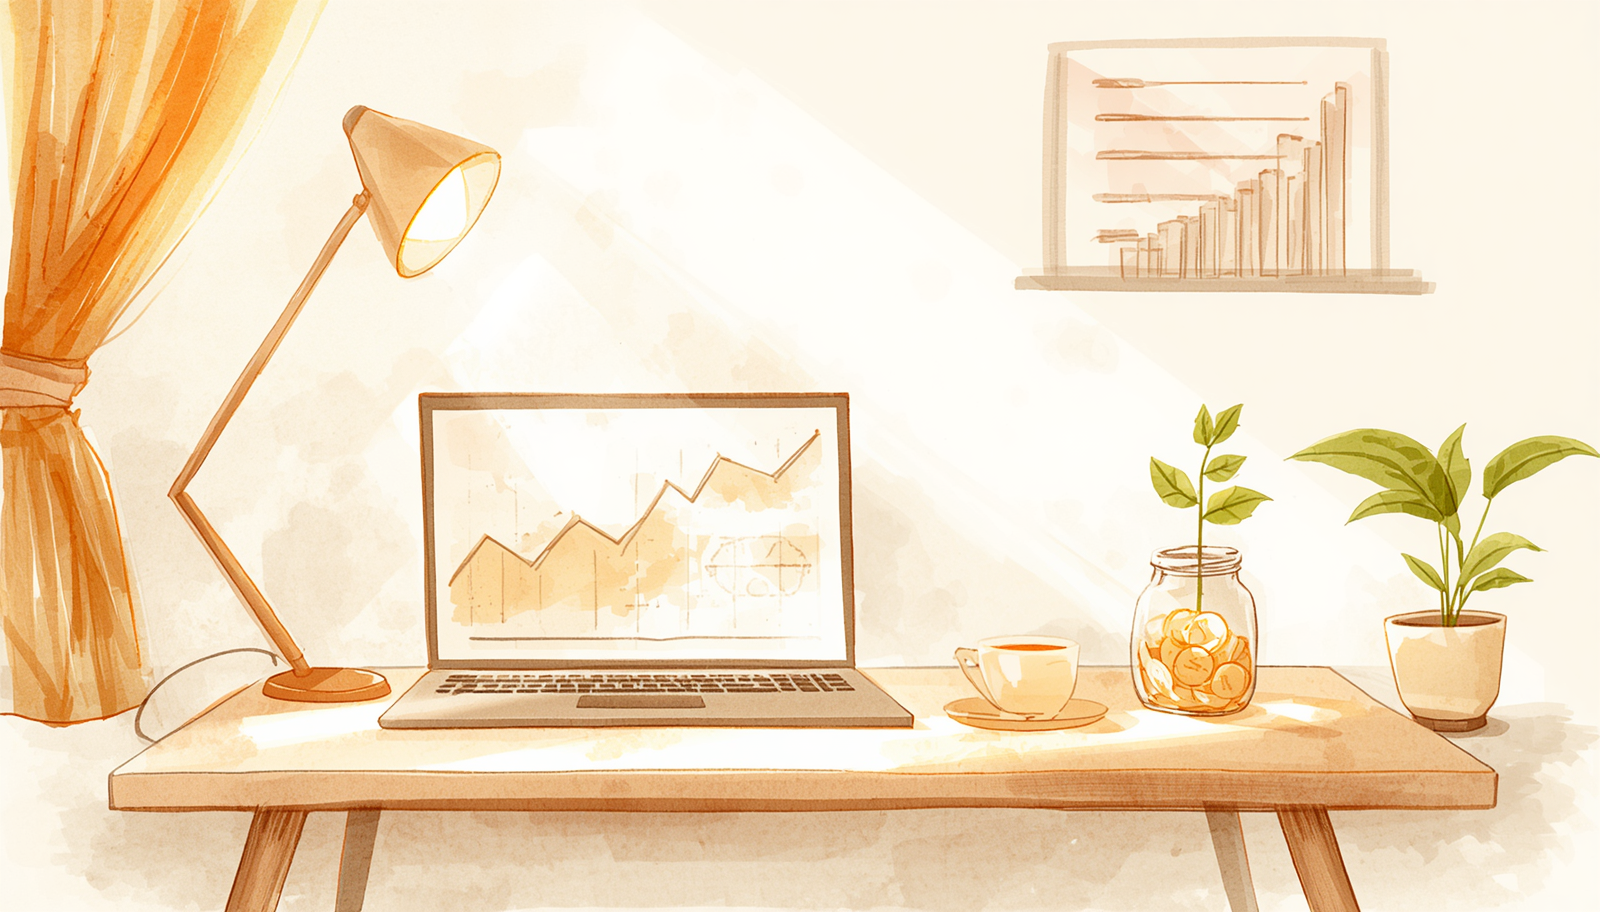
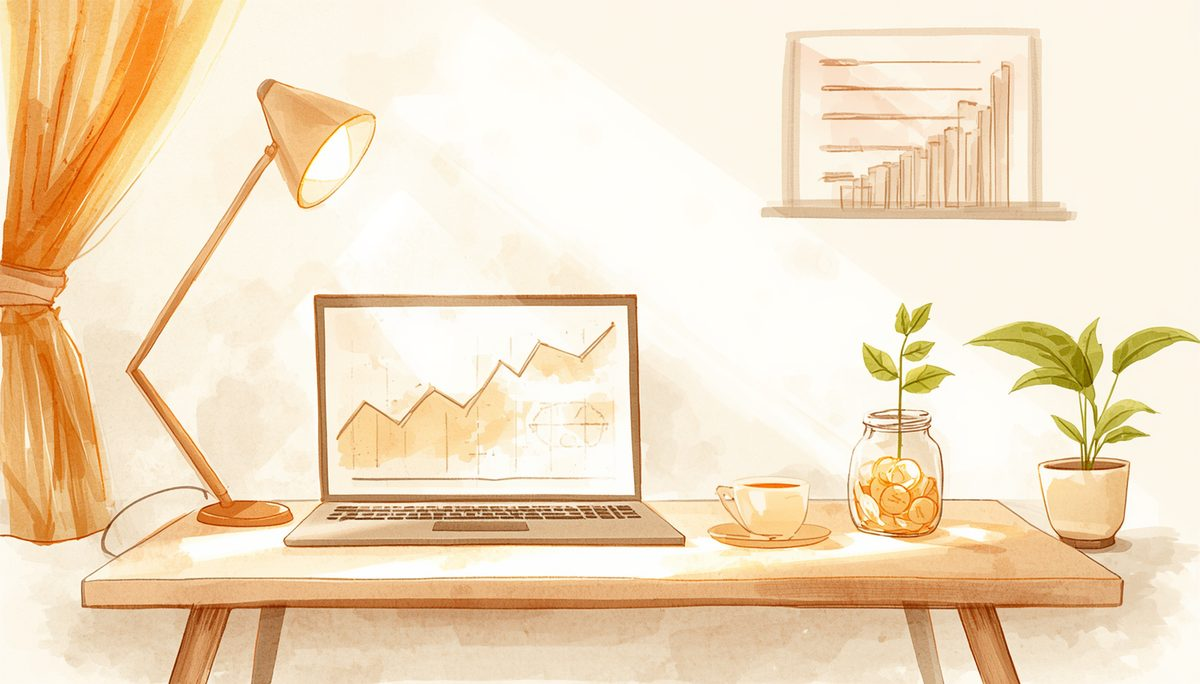
(トップ)PostCardにヒーロー画像を表示し軽量サムネイルで導線改善(Hermes分析Step1)

Changed region(s): [[0.7092, 0.6754, 0.7708, 0.7675], [0.8942, 0.6447, 0.925, 0.6754]]

diff --git a/編集部/データ/トップページ導線改善_分析と修正案_2026-09-07.md b/編集部/データ/トップページ導線改善_分析と修正案_2026-09-07.md
@@ -1,0 +1,216 @@
+# トップページ導線改善：分析結果と修正案
+
+- 作成日: 2026-09-07
+- 作成者: Hermes（Naokiの指示により）
+- 対象: naoki-blog.com トップページの導線改善（Astroコンポーネント修正）
+- データソース:
+  - GA4（IP除外後、2026-08-08〜09-07）※API経由で実データ取得
+  - Search Console ページのインデックス登録レポート（2026-09-04時点・スクショ）
+  - `編集部/データ/検索流入ボトルネック分析_2026-08-11.md`（リク）
+  - `編集部/データ/検索パフォーマンス分析_2026-08-11.md`（リク）
+  - `src/pages/index.astro` / `src/components/PostCard.astro` の実コード
+
+---
+
+## 1. 前提：計測環境の変化
+
+2026-08-08から、Naoki本人のPC・スマホのIPアドレスがGA4で除外された。
+**以後のデータは「実訪問者のみ」を反映している。**
+
+---
+
+## 2. 分析結果
+
+### 2-1. GA4 実データ（2026-08-08〜09-07、IP除外後）
+
+**月間 約55セッション／約53ユーザー**（週平均13.5）
+
+#### 流入元別
+
+| 流入元 | セッション | 平均滞在時間 | ページ/セッション |
+|---|---|---|---|
+| 直接アクセス | 41 (75%) | 12.3秒 | 1.0 |
+| Bing 検索 | 5 | 0秒 | 1.0 |
+| Google 検索 | 2 | 165.9秒 | 1.0 |
+| Substack（メルマガ） | 2 | **1,105.5秒（約18分）** | **5.5**（11PV/2セッション） |
+| ChatGPT | 1 | 546.8秒（約9分） | 1.0 |
+| Yahoo 検索 | 1 | 19.4秒 | 1.0 |
+
+#### ランディングページ別
+
+| ページ | セッション | PV |
+|---|---|---|
+| `/`（トップページ） | 45 (82%) | 54 |
+| `/blog/furusato-nozei-limit-guide/` | 3 | 3 |
+| `/blog/subscription-fatigue-2026-guide/` | 2 | 2 |
+| その他記事ページ | 各1 | 各1 |
+
+#### 週次トレンド
+
+| 週 | セッション |
+|---|---|
+| 週32（8/3〜8/9） | 18 |
+| 週33（8/10〜8/16） | 21 |
+| **週34（8/17〜8/23）** | **1** ← 記事公開なしの週と一致 |
+| 週35（8/24〜8/30） | 6 |
+| 週36（8/31〜9/6） | 8 |
+
+### 2-2. Search Console（2026-09-04時点）
+
+- 登録済み: 41ページ / 未登録: 26ページ
+- 未登録26件の内訳:
+  - リダイレクト 16件（統廃合した旧記事＋末尾スラッシュ仕様。**意図どおり**）
+  - noindex 6件（Astro転送スタブの仕様。**意図どおり**）
+  - 404 4件（発生源は解消済み）
+- **→ 未登録に実害はほぼゼロ。インデックスはボトルネックではない**
+  （リク8/11分析「20本中19本は登録済み」と整合）
+
+### 2-3. リク（SEO担当）の既存分析との突き合わせ
+
+- 検索表示回数は月110回前後（7/3に-82%崩落、その後緩やかに回復）
+- CTR 3〜5%は正常値 → **タイトル/descriptionの問題ではない**
+- ボトルネックは「表示回数の絶対量」＝記事の6割が金融大手と正面衝突する勝てないキーワードに投下されている構造問題
+- 勝っているのは非商用ニッチ領域（outdated-security-myths 7.9位 ほか）
+- ふるさと納税・自動車保険・生命保険は合計約200表示・クリック0
+
+---
+
+## 3. 統合分析から見えた核心（3点）
+
+### ① 直接アクセス75%は「質の低い流入」、本当の読者はSubstackにいる
+- トップへの流入は多いが、平均滞在12秒・1PVで離脱（ちら見で終わる）
+- 一方 Substack 経由は滞在18分・5.5PV。**熱心な読者が確実に存在する**
+- 検索流入（月数セッション）を当てにするより、**Substock配信とトップページ内の回遊を先に固める**のが合理的
+
+### ② 流入が更新ペースに100%依存している
+- 記事公開の無かった週34（8/17〜8/23）はセッション1。公開が止まると流入もほぼ止まる
+- 検索からの恒常流入がまだ無いため。**最低週1公開を機械的に守る**価値がある
+
+### ③ トップページがランディングの82%なのに、そこから記事へ流れない
+- 45セッションが `/` に着地し、ほとんどが1PVで去る（54PV/45セッション）
+- 守りの改善（トップの導線強化）が最も費用対効果が高い
+
+---
+
+## 4. コード確認で見つかった実装上の問題（3点）
+
+### 問題① PostCard が heroImage を表示していない（最大の機会損失）
+- `src/components/PostCard.astro` は全記事が持つ `heroImage`（水彩画ヒーロー画像）を無視し、絵文字だけの色付きバナー（高さ80px）を表示している
+- トップ・記事一覧・カテゴリタブのすべてでPostCardを使用 → **1ファイル修正で全ページに効く**
+- 目を引く画像のない一覧はスクロールされない。離脱率と直結している可能性が高い
+
+### 問題② ヒーローCTAが「記事を読む →」で /blog/ 行き
+- 帰着先が記事リストの羅列。初見訪問者に「何から読むか」の答えを提示していない
+
+### 問題③ 「初めての人の導線」が存在しない
+- 実績のある記事（furusato-nozei-limit-guide、outdated-security-myths）への意図的な導線がゼロ
+- 「このブログについて」セクションはあるが、読ませる導線ではない
+
+---
+
+## 5. 修正案（影響の小さい順・3ステップ）
+
+### Step 1: PostCard にヒーロー画像を表示（最重要・効果大）
+
+`src/components/PostCard.astro` を修正:
+
+```astro
+---
+import type { CollectionEntry } from 'astro:content';
+
+interface Props {
+  post: CollectionEntry<'blog'>;
+}
+
+const { post } = Astro.props;
+const { title, pubDate, category, description, emoji, heroImage } = post.data;
+const hasHero = Boolean(heroImage); // heroImageが無い記事のフォールバック用
+
+// （categoryStyles・formattedDate は既存のまま）
+---
+
+<a href={`/blog/${post.slug}/`} class="post-card">
+  {hasHero ? (
+    <div class="card-banner-img">
+      <img src={heroImage} alt="" loading="lazy" class="card-hero" />
+    </div>
+  ) : (
+    <div class="card-banner" style={`background: ${style.gradient}`}>
+      <span class="card-emoji">{emoji}</span>
+    </div>
+  )}
+  <!-- card-body 以下は既存のまま（category・title・description・date） -->
+</a>
+
+<style>
+  .card-hero {
+    width: 100%;
+    height: 160px; /* 高さはカード幅に合わせて調整 */
+    object-fit: cover;
+    display: block;
+  }
+</style>
+```
+
+- `loading="lazy"` でページ速度を維持
+- heroImageを持たない記事は絵文字バナーにフォールバック（既存表示を維持）
+- 全24記事が対象。既存記事のfrontmatter修正は不要
+
+### Step 2: ヒーローCTAを「目的別」に変える
+
+`src/pages/index.astro` の `hero-cta` を単一リンクから2ボタンに:
+
+```astro
+<div class="hero-ctas">
+  <a href="/blog/outdated-security-myths/" class="hero-cta">人気記事を読む →</a>
+  <a href="/blog/" class="hero-cta-secondary">記事一覧 →</a>
+</div>
+```
+
+- 一次選択の根拠: GSCで**平均7.9位・表示102回・クリック6回（サイト唯一の安定したクリック源）**
+- 「何から読むか分からない」初見訪問者を実績記事へ直接導く
+
+### Step 3: 「はじめての方へ」3本セクションを追加
+
+`index.astro` の最新記事セクションの上（ファーストビュー直下）に新セクション:
+
+```astro
+<section class="start-here">
+  <h2 class="section-title">はじめての方は、この3本から</h2>
+  <div class="posts-grid">
+    {/* PostCardを使い、3本のスラッグを固定指定 */}
+    {/* ① seikatsu-bouei-shikin-guide（生活防衛資金） */}
+    {/* ② outdated-security-myths（時代遅れのセキュリティ対策） */}
+    {/* ③ life-money-plan-guide（人生のお金は3幕で考える） */}
+  </div>
+</section>
+```
+
+選定根拠:
+
+| 記事 | 根拠 |
+|---|---|
+| seikatsu-bouei-shikin-guide | 内部被リンク16本（サイト最多）＝編集部が土台記事と認定。「保存版」ポジション |
+| outdated-security-myths | GSC 7.9位・表示102・クリック6。検索実績No.1 |
+| life-money-plan-guide | お金カテゴリの総覧。初心者の「何から読む？」に答える3幕構成 |
+
+---
+
+## 6. 併せて推奨する施策（コード以外）
+
+1. **Substock配信の定期化**（滞在18分・5.5PVの熱心な読者が既にいる。新記事公開ごとに導入＋リンクを配信）
+2. **最低週1の公開ペース維持**（週34の流入ゼロが示すとおり、公開が止まると流入も止まる）
+3. **「ハックロア」で1位を取りに行く**（リク提案どおり。outdated-security-mythsにH2見出しを追加する小修正）
+4. **ふるさと納税・自動車保険・生命保険への追加投資は保留**（約200表示・クリック0の実績。3か月後に再測定）
+5. **構造化データ（schema.org Article）追加**（ChatGPT流入が既に出始めている。生成AIエンジン対策）
+
+---
+
+## 7. 実施に関するメモ
+
+- **影響範囲**: `src/components/PostCard.astro`（共通コンポーネント）と `src/pages/index.astro` の2ファイル
+- **検証**: `npm run build` が通ること + `npm run dev` での目視確認
+- **デザイン**: 既存のCSS変数（--radius-card 等）をそのまま使用。テーマは崩れない
+- **作業ログ**: 完了後 `編集部/作業ログ.md` に記載（CLAUDE.mdルール）
+- **設計図**: `docs/superpowers/specs/2026-05-02-astro-blog-design.md` の同時更新
+- **SEO担当リクの公開前チェック**: 見た目の変更が中心だが、Step 2〜3は導線変更を含むため念のため通すことを推奨

diff --git a/docs/superpowers/specs/2026-05-02-astro-blog-design.md b/docs/superpowers/specs/2026-05-02-astro-blog-design.md
@@ -42,12 +42,13 @@ src/
   components/
     Header.astro       ← ナビゲーションバー
     Footer.astro       ← フッター
-    PostCard.astro     ← 記事一覧用カードコンポーネント（カテゴリ配色もここに集約）
+    PostCard.astro     ← 記事一覧用カードコンポーネント（カテゴリ配色もここに集約）。heroImageがあればカード上部に軽量サムネイル（/images/hero-thumb/、幅480px）を表示し、無ければ従来の絵文字バナーにフォールバック（2026-09追加）
     NewsletterCTA.astro ← メルマガ登録の誘導（BlogLayoutに組込・後から追加）
   styles/
     global.css         ← CSS変数・リセット・共通スタイル
 public/
-  images/hero/         ← 記事アイキャッチ（heroImage の実体）
+  images/hero/         ← 記事アイキャッチ（heroImage の実体。記事詳細ページ用）
+  images/hero-thumb/   ← カード表示用の軽量サムネイル（幅480px・同名ファイル。PostCard.astroが参照。2026-09追加）
   images/              ← その他の静的画像
   CNAME                ← 独自ドメイン設定（GitHub Pages）
   favicon.svg

diff --git a/編集部/作業ログ.md b/編集部/作業ログ.md
@@ -11,6 +11,12 @@
 
 ---
 
+## 2026-09-07（月）
+- **Hermesのトップページ導線分析を検証し、Step1のみ実装** → [分析と修正案](データ/トップページ導線改善_分析と修正案_2026-09-07.md)
+  - PostCardにヒーロー画像を表示（絵文字バナーから変更）。カード表示専用の軽量サムネイル（幅480px・26枚）を新規生成し `/images/hero-thumb/` に配置
+  - あわせて肥大化していたヒーロー画像2枚を圧縮（nisa-beginners-guide 1.9MB→101KB、summer-bonus 1.4MB→79KB）
+  - Hermesの分析で1点誤り（週34は記事非公開の週ではなく実際は2本公開していた）を発見・指摘。Step2〜3（CTA変更・はじめての3本セクション）は保留
+
 ## 2026-09-06（日）
 - **朝会を開催し、AI社員7名が稼働**（ユメは前回8/30から7日経過のため今回は起動）
 - Notionボードを確認：完了・却下以外の24件全カードを本文まで確認し、ツムギの9/4投稿案に新しい社長メモ（AIニュース・Notes1採用済み）を発見 → 連載第4回の未告知問題が解消済みと確認
